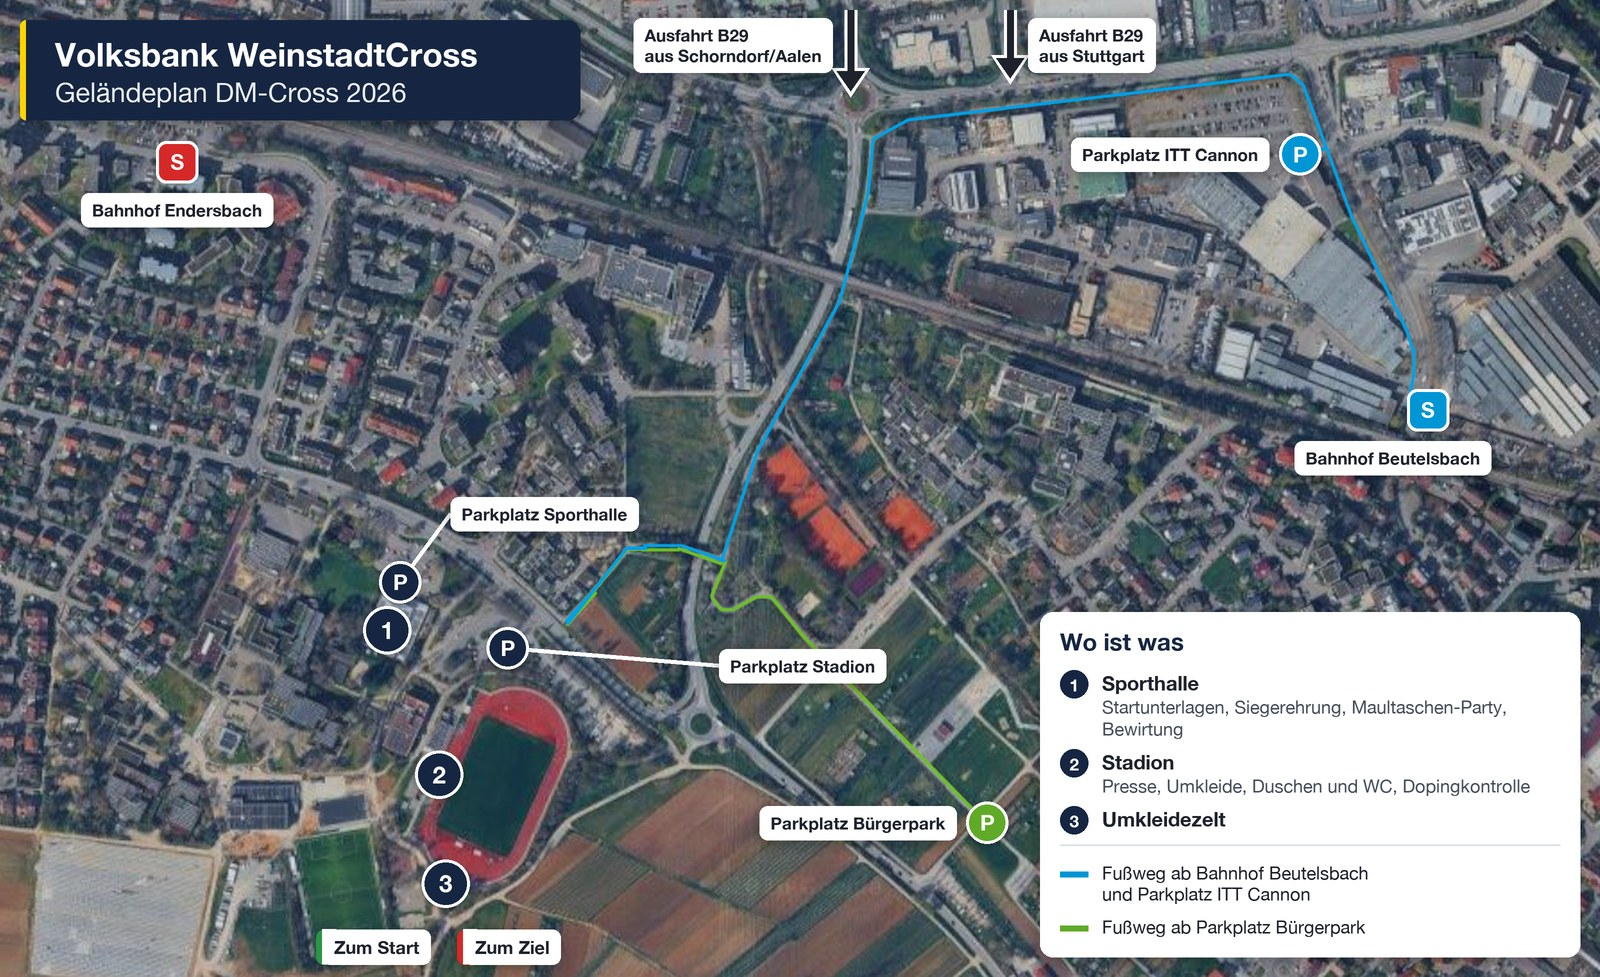
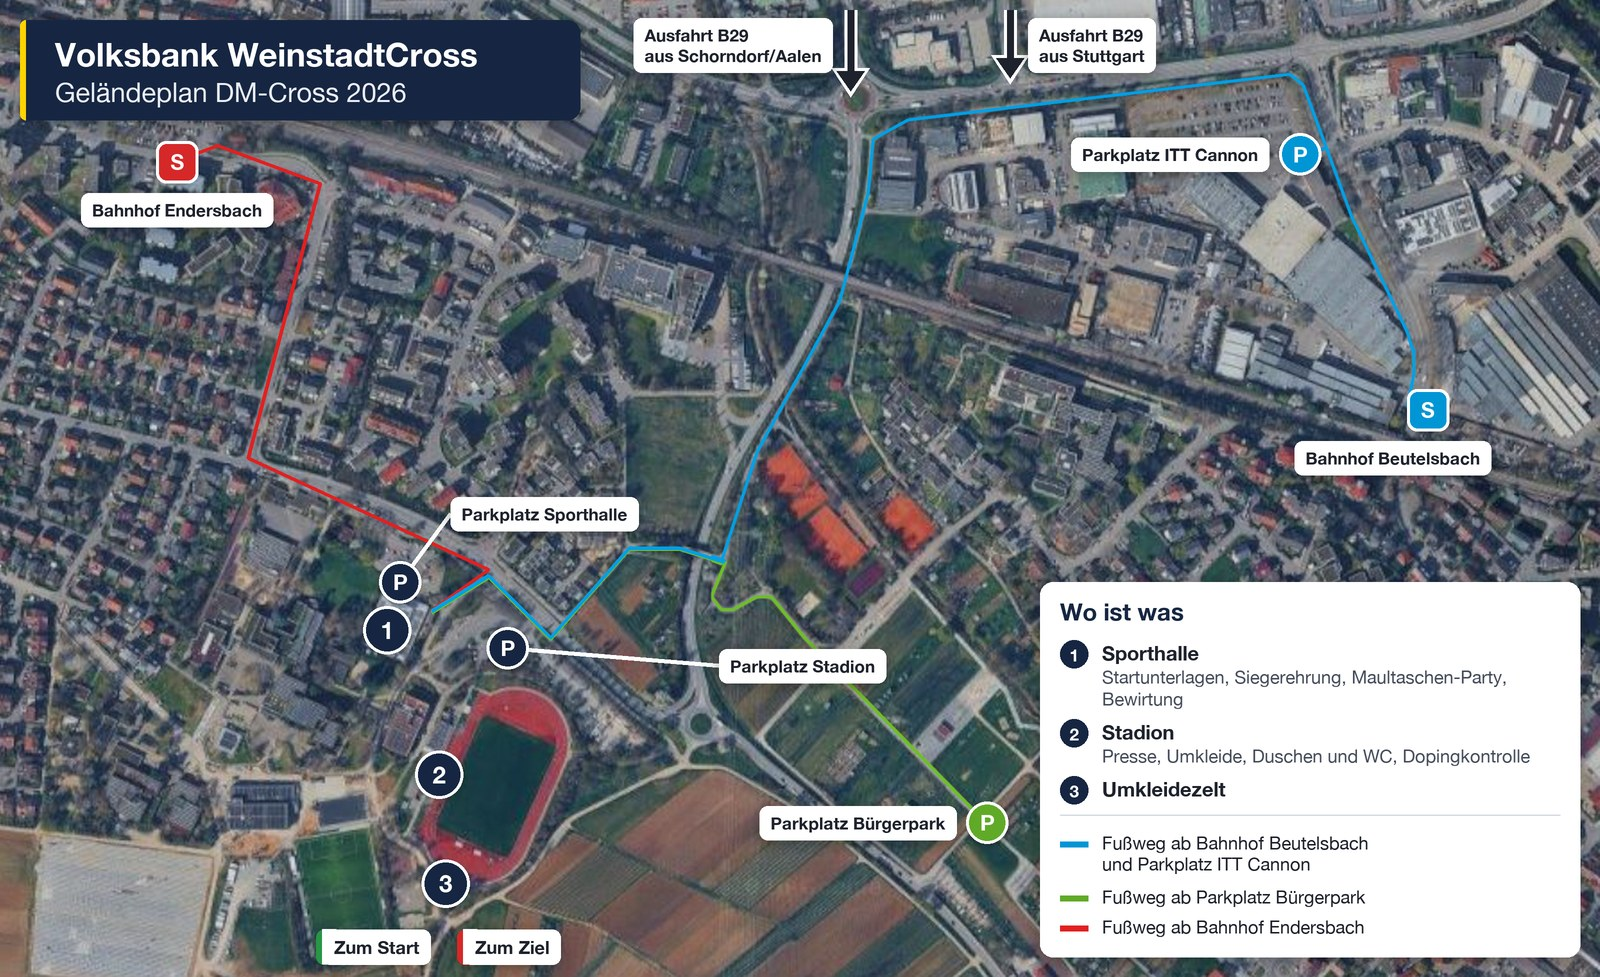
Vault-Backup 2026-10-29 21:10:57

diff --git a/07 Anhänge/news-dlv-streckencheck-html.html b/07 Anhänge/news-dlv-streckencheck-html.html
@@ -1,0 +1,4 @@
+<div data-id="skpost" class="mfn-builder-content mfn-default-content-buider"><section class="section mcb-section mfn-default-section mcb-section-sk" style=""><div class="mcb-background-overlay"></div><div class="section_wrapper mfn-wrapper-for-wraps mcb-section-inner mcb-section-inner-sk"><div class="wrap mcb-wrap mcb-wrap-skw1 one-third tablet-one-third laptop-one-third mobile-one vb-item clearfix" data-desktop-col="one-third" data-laptop-col="laptop-one-third" data-tablet-col="tablet-one-third" data-mobile-col="mobile-one" style=""><div class="mcb-wrap-inner mcb-wrap-inner-skw1 mfn-module-wrapper mfn-wrapper-for-wraps"><div class="mcb-wrap-background-overlay"></div><div class="column mcb-column mcb-item-skw10 one laptop-one tablet-one mobile-one column_image vb-item" style=""><div class="mcb-column-inner mfn-module-wrapper mcb-column-inner-skw10 mcb-item-image-inner"><div class="image_frame image_item no_link scale-with-grid element_classes alignnone no_border mfn-img-box"><div class="image_wrapper"><img width="480" height="640" src="https://weinstadtcross.de/wp-content/uploads/2026/10/weinstadtcross-2026-dlv-streckencheck-1.jpg" class="scale-with-grid" alt="Streckencheck am Hang" style="" decoding="async" loading="lazy"></div></div>
+</div></div></div></div><div class="wrap mcb-wrap mcb-wrap-skw2 one-third tablet-one-third laptop-one-third mobile-one vb-item clearfix" data-desktop-col="one-third" data-laptop-col="laptop-one-third" data-tablet-col="tablet-one-third" data-mobile-col="mobile-one" style=""><div class="mcb-wrap-inner mcb-wrap-inner-skw2 mfn-module-wrapper mfn-wrapper-for-wraps"><div class="mcb-wrap-background-overlay"></div><div class="column mcb-column mcb-item-skw20 one laptop-one tablet-one mobile-one column_image vb-item" style=""><div class="mcb-column-inner mfn-module-wrapper mcb-column-inner-skw20 mcb-item-image-inner"><div class="image_frame image_item no_link scale-with-grid element_classes alignnone no_border mfn-img-box"><div class="image_wrapper"><img width="480" height="640" src="https://weinstadtcross.de/wp-content/uploads/2026/10/weinstadtcross-2026-dlv-streckencheck-2.jpg" class="scale-with-grid" alt="Streckencheck mit dem DLV-Team" style="" decoding="async" loading="lazy"></div></div>
+</div></div></div></div><div class="wrap mcb-wrap mcb-wrap-skw3 one-third tablet-one-third laptop-one-third mobile-one vb-item clearfix" data-desktop-col="one-third" data-laptop-col="laptop-one-third" data-tablet-col="tablet-one-third" data-mobile-col="mobile-one" style=""><div class="mcb-wrap-inner mcb-wrap-inner-skw3 mfn-module-wrapper mfn-wrapper-for-wraps"><div class="mcb-wrap-background-overlay"></div><div class="column mcb-column mcb-item-skw30 one laptop-one tablet-one mobile-one column_image vb-item" style=""><div class="mcb-column-inner mfn-module-wrapper mcb-column-inner-skw30 mcb-item-image-inner"><div class="image_frame image_item no_link scale-with-grid element_classes alignnone no_border mfn-img-box"><div class="image_wrapper"><img width="480" height="640" src="https://weinstadtcross.de/wp-content/uploads/2026/10/weinstadtcross-2026-dlv-streckencheck-3.jpg" class="scale-with-grid" alt="Streckenbegehung auf der Wiese" style="" decoding="async" loading="lazy"></div></div>
+</div></div></div></div></div></section></div>

diff --git a/03 Bereiche/WeinstadtCross/Gelernt.md b/03 Bereiche/WeinstadtCross/Gelernt.md
@@ -6,6 +6,7 @@ tags: [gelernt, weinstadtcross]
 
 Eine Zeile pro Erkenntnis, neueste oben.
 
+- 2026-10-29: Geländeplan „Wo ist was“ (Info-Reiter) neu gestaltet: Rohkarte aus der Word-Datei, Laufwege und Positionen nach Oskars Screenshots nachgezeichnet. Die Linien dünn und ohne weißen Rand lassen (sonst wirkt es aufgesetzt), keine Pfeile für Start/Ziel, nur Beschriftung „Zum Start“ und „Zum Ziel“. Bild liegt in 07 Anhänge, Ersetzen in WordPress über die Mediathek.
 - 2026-09-14: Beitragsbild nicht zusätzlich in den Galerie-Block setzen, sonst erscheint es doppelt (nach der Schlaglöcher-News festgelegt).
 - 2026-09-02: Beim Einfügen ins Theme-Textfeld kamen Umlaute kaputt an. Folge: alle Nicht-ASCII-Zeichen im HTML-Block als Entity kodieren.
 - 2026-09-02: Mails zu IONOS-Rechnungen an info@ sind Phishing, echte Rechnungen gehen ans Portal oder an Oskars web.de-Adresse.
